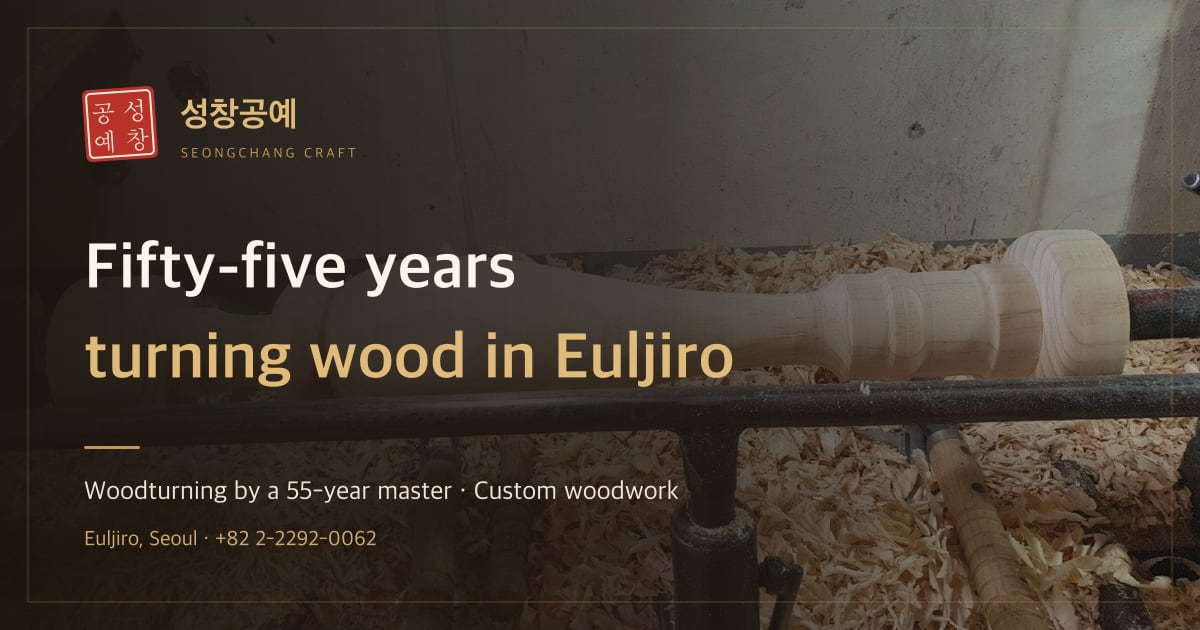
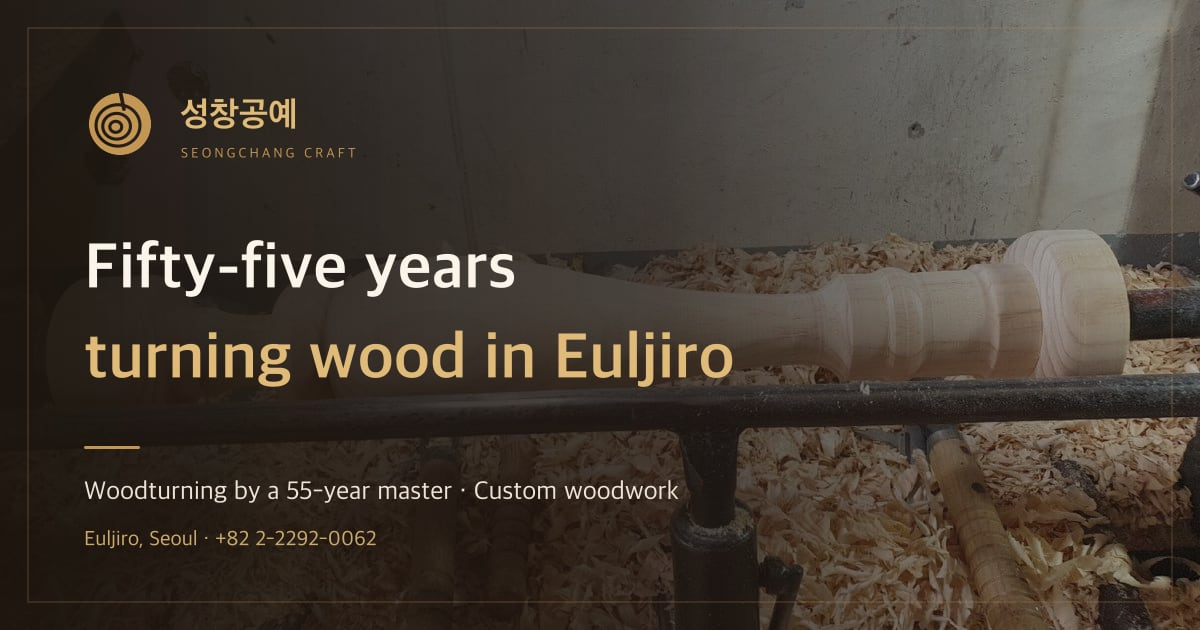
brand: 붉은 도장 대신 나무 단면(나이테) 마크
- 새 마크(Mark.astro): 통나무 단면과 갈라진 틈, 고리는 뚫린 모양이라 어느 바탕에서도 또렷
- 상단 로고·바닥글·홈 주문 안내·소개 서명·입장 화면에 마크, 첫 화면 제목 옆 도장과 사진 위 도장 삭제
- 파비콘(svg·ico·아이폰 아이콘)을 템플릿 기본 아이콘에서 새 마크로
- 공유 이미지 4개 언어도 새 마크로, 도장용 명조체 글꼴 요청 삭제

Changed region(s): [[0.0617, 0.1206, 0.1542, 0.2714]]

diff --git a/src/assets/styles/tailwind.css b/src/assets/styles/tailwind.css
@@ -325,6 +325,7 @@
 #intro .intro-stage {
   position: relative;
 }
+#intro .intro-mark,
 #intro .intro-kicker,
 #intro .intro-sub {
   opacity: 0;
@@ -352,6 +353,9 @@
 }
 #intro.play .intro-photo img {
   animation: introPhoto 4.4s cubic-bezier(0.25, 0.6, 0.3, 1) forwards;
+}
+#intro.play .intro-mark {
+  animation: introRise 1.2s ease 0.25s forwards;
 }
 #intro.play .intro-kicker {
   animation: introRise 1s ease 0.4s forwards;
@@ -430,27 +434,6 @@
 
 .intro-done #intro {
   display: none;
-}
-
-/* 장인 느낌: 붉은 낙관(도장) */
-.seal {
-  display: inline-grid;
-  grid-template-columns: 1fr 1fr;
-  gap: 0.05em 0.1em;
-  padding: 0.22em;
-  border-radius: 0.12em;
-  color: #f8ecdc;
-  background: #b8322a;
-  box-shadow:
-    inset 0 0 0 0.07em #f8ecdc,
-    0 0 0 0.05em #b8322a;
-  font-family: 'Noto Serif KR', serif;
-  font-weight: 900;
-  line-height: 1;
-  transform: rotate(-4deg);
-  /* 인주가 고르게 묻지 않은 듯한 질감 */
-  -webkit-mask-image: radial-gradient(circle at 30% 20%, #000 55%, rgb(0 0 0 / 0.75) 80%);
-  mask-image: radial-gradient(circle at 30% 20%, #000 55%, rgb(0 0 0 / 0.75) 80%);
 }
 
 /* 종이·나무 표면 같은 아주 옅은 알갱이 */
@@ -757,17 +740,6 @@ aw-gallery figcaption::before {
   width: 14px;
   height: 1px;
   background: #c49654;
-}
-
-/* 낙관이 화면에 들어오면 '쾅' 찍힘 */
-.stamp-in[no-intersect] {
-  opacity: 0;
-  transform: scale(2.2) rotate(-4deg);
-}
-.stamp-in {
-  transition:
-    opacity 0.25s ease,
-    transform 0.45s cubic-bezier(0.3, 0, 0.3, 1.4);
 }
 
 /* 글자가 하나씩 떠오르는 제목 (CraftFX) */
